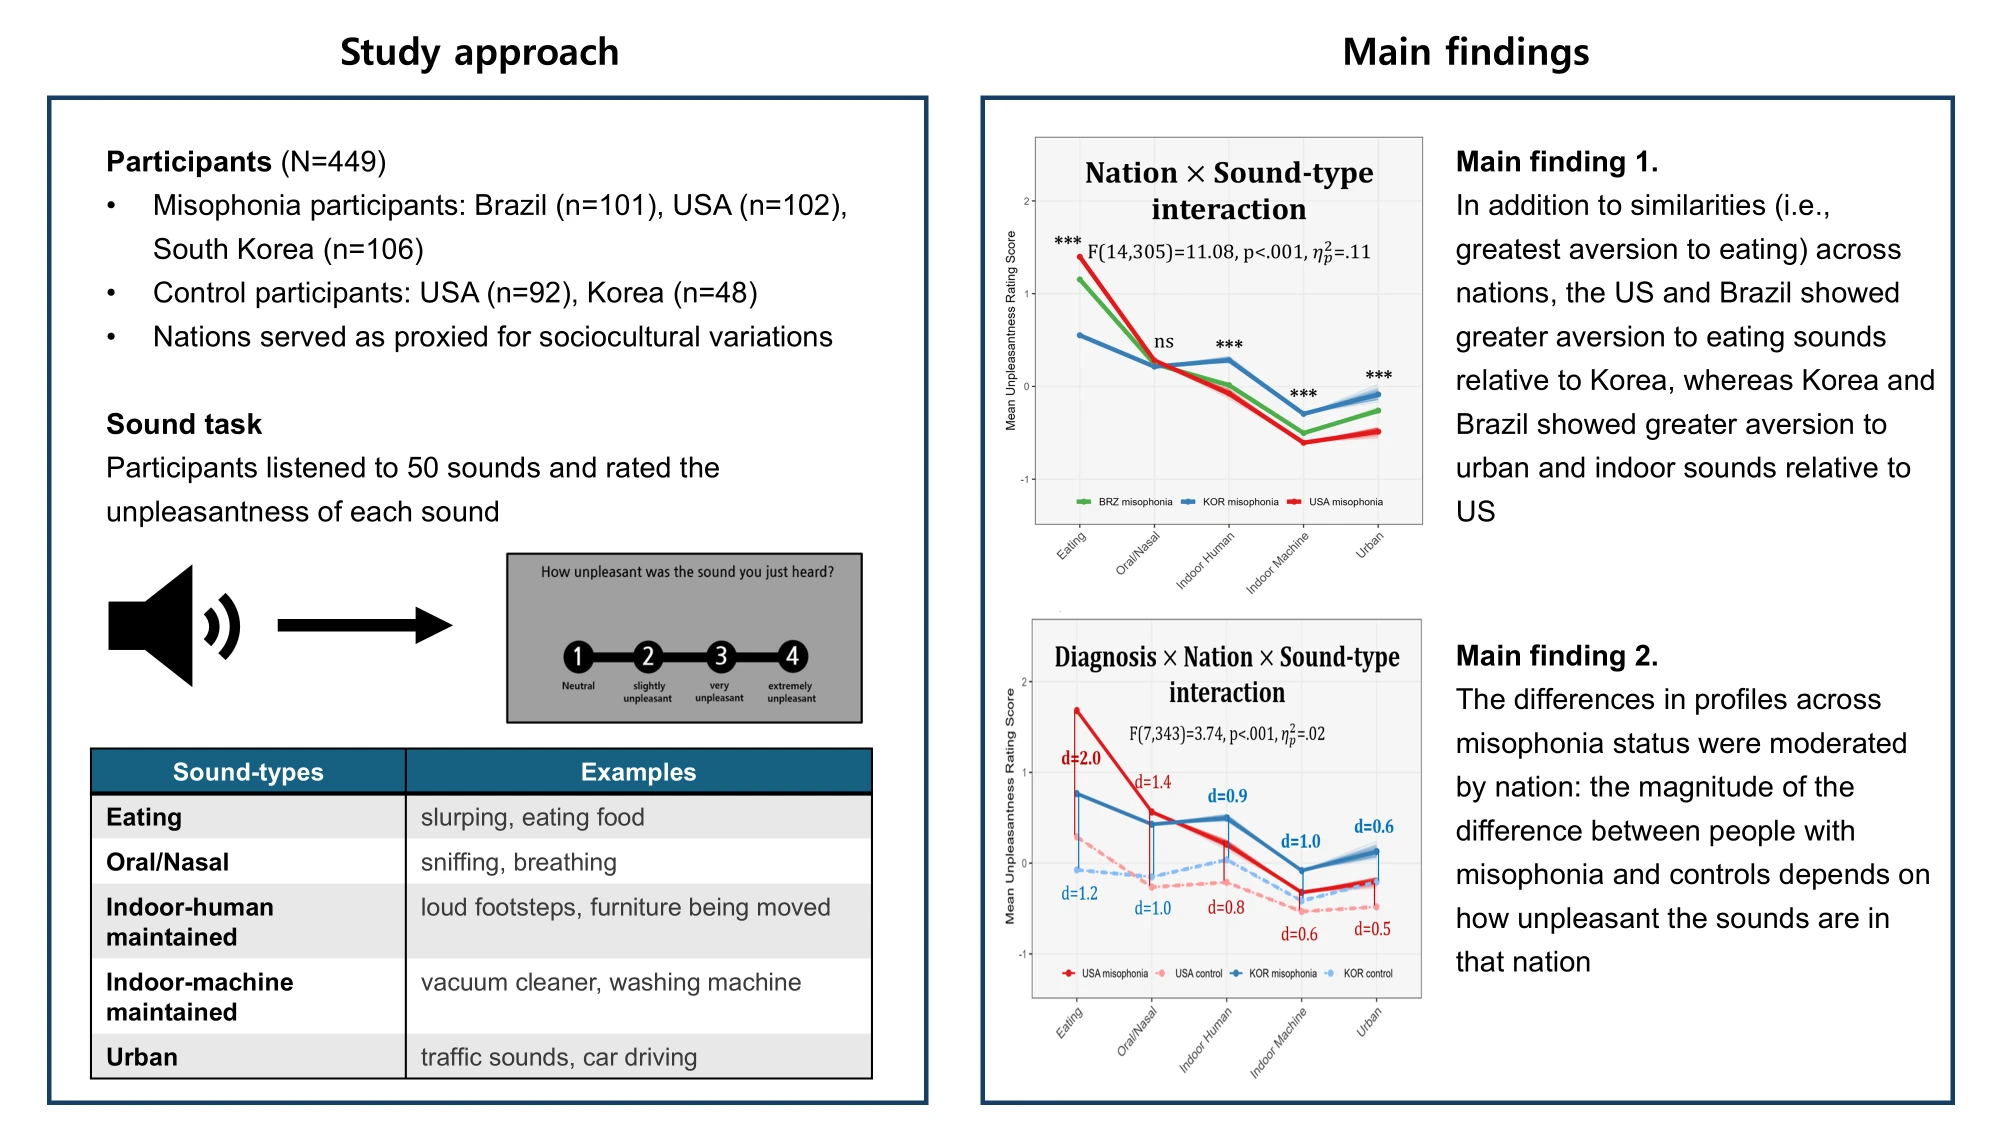
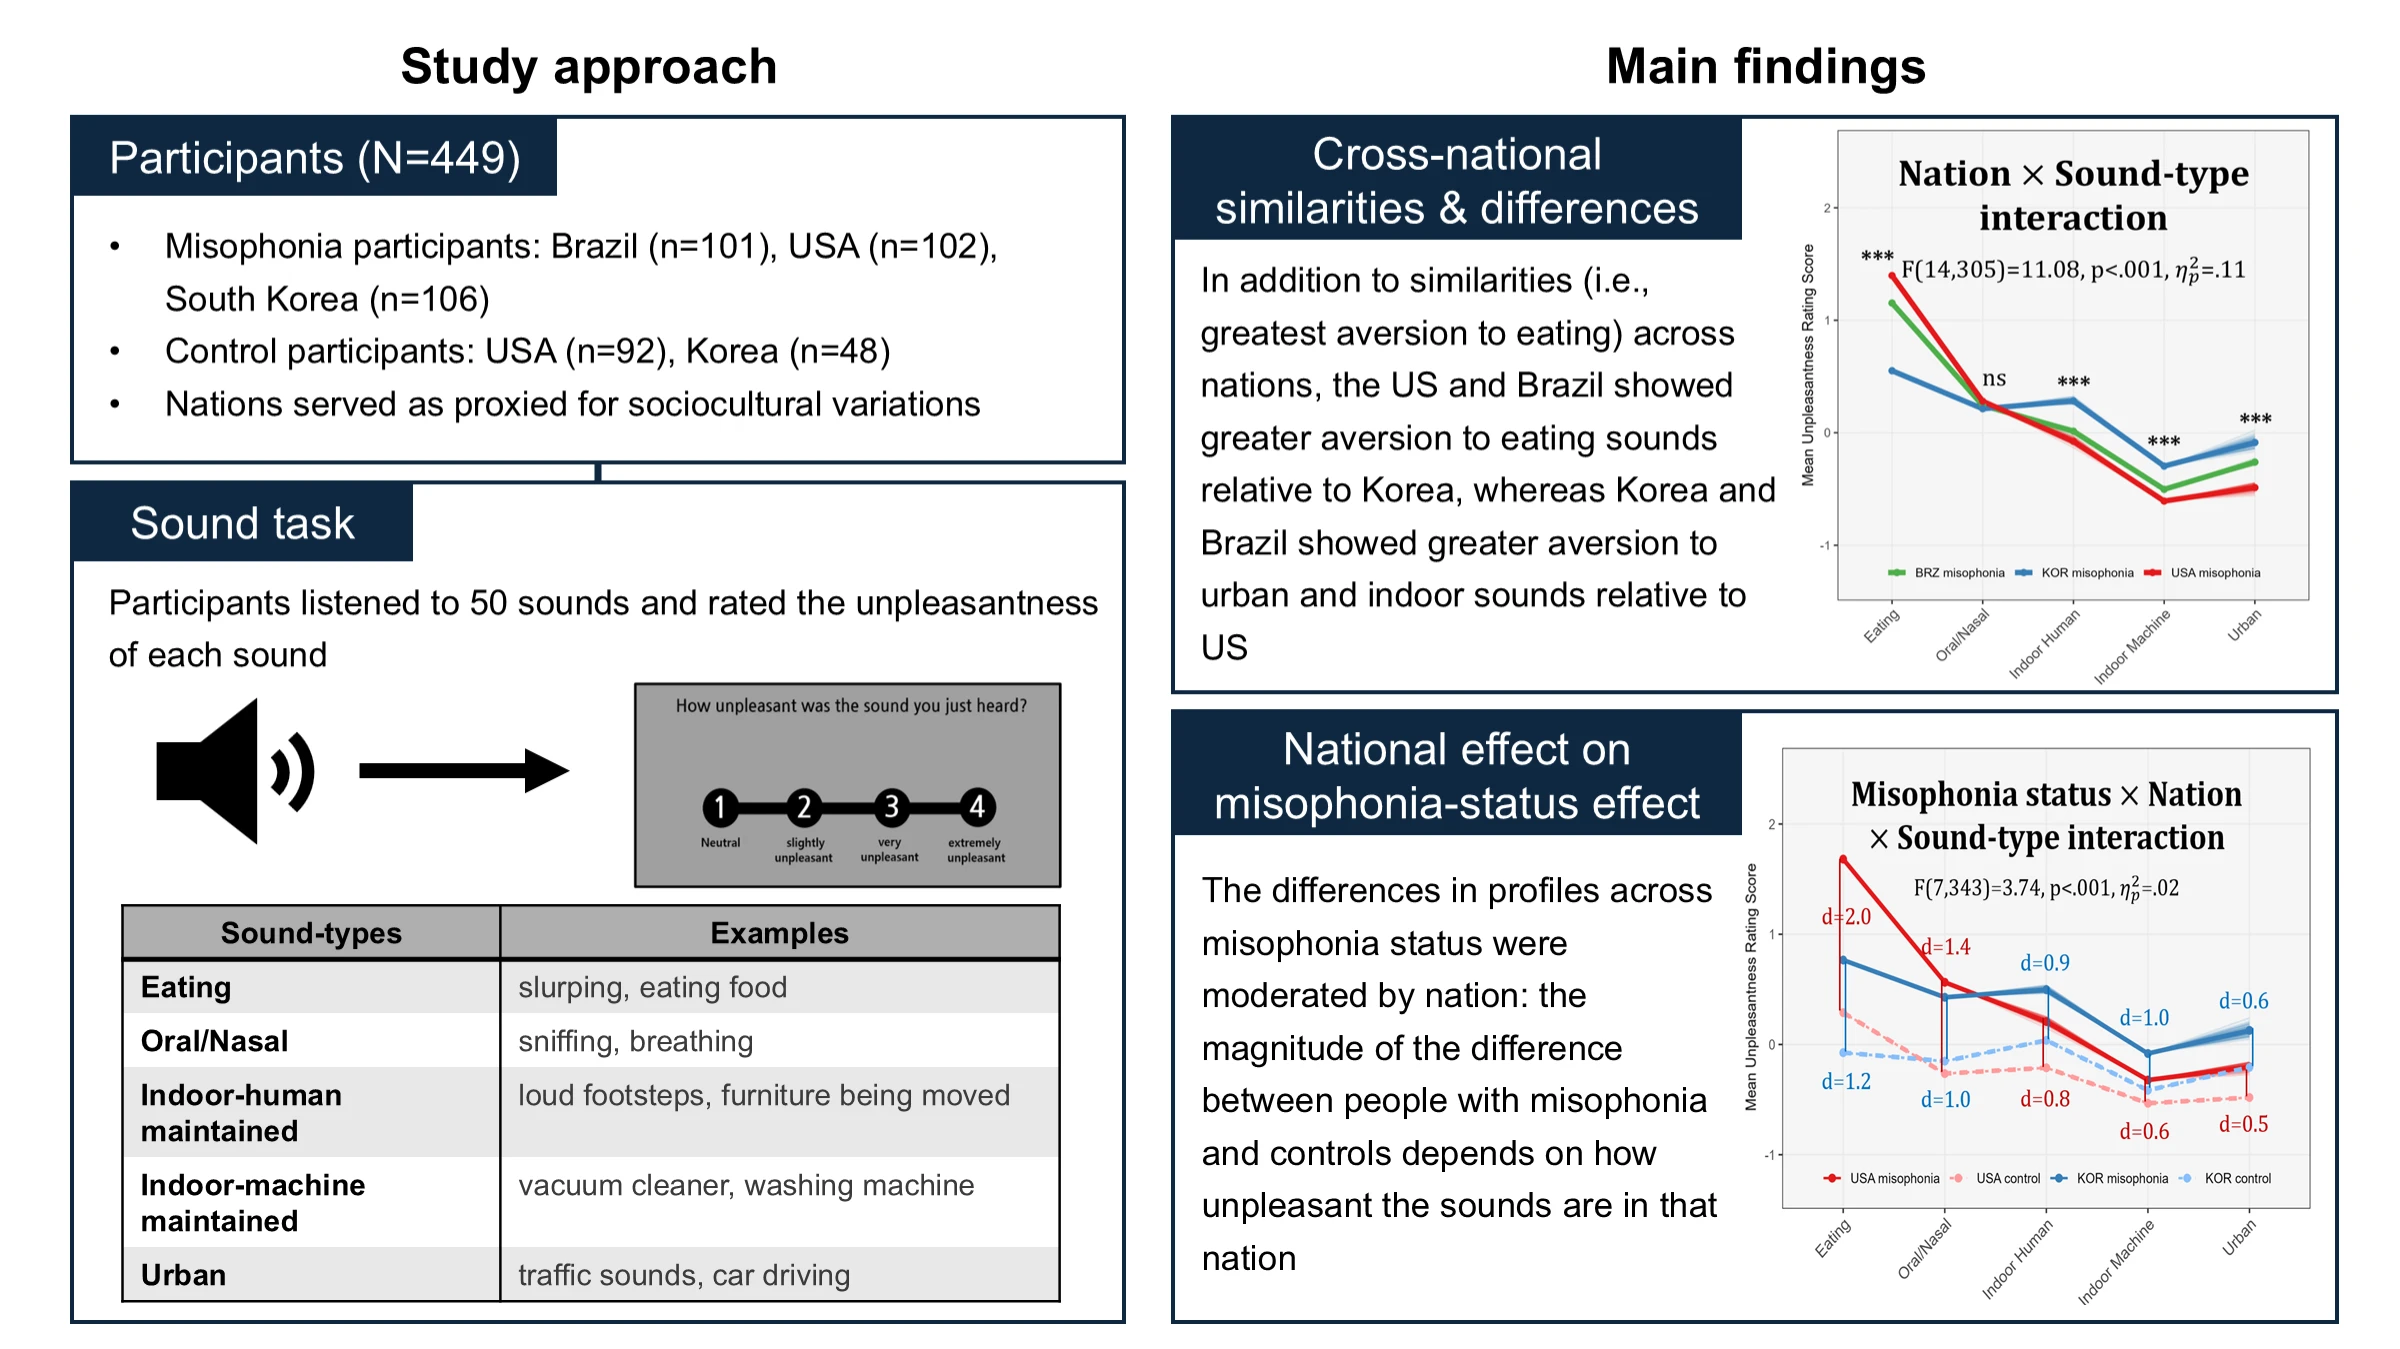
Update project name, remove GitHub button, revise overviews, swap misophonia figure

Changed region(s): [[0.0, 0.0311, 0.992, 0.9956]]

diff --git a/research.html b/research.html
@@ -37,7 +37,7 @@
       <a class="tab" href="#anxiety-sensitivity" aria-selected="true">Anxiety Sensitivity</a>
       <a class="tab" href="#misophonia" aria-selected="false">Misophonia</a>
       <a class="tab" href="#physiology" aria-selected="false">Depression &amp; Anxiety</a>
-      <a class="tab" href="#curiosity" aria-selected="false">Curiosity</a>
+      <a class="tab" href="#curiosity" aria-selected="false">Curiosity &amp; Question</a>
     </nav>
   </div>
 
@@ -53,7 +53,7 @@
           </div>
         </div>
         <h4 class="proj-sub">Overview</h4>
-        <p>We identified whole-brain intrinsic connectivity patterns predictive of individual differences in anxiety sensitivity, applying connectome-based predictive modeling (CPM) to resting-state fMRI data from a non-clinical sample (<em>N</em> = 86). Higher anxiety sensitivity was predicted by reduced intrinsic connectivity in a whole-brain distributed network, particularly in insula-temporal and insula-frontal connections.</p>
+        <p>We identified whole-brain intrinsic connectivity patterns predictive of individual differences in anxiety sensitivity, applying connectome-based predictive modeling (CPM) to resting-state fMRI data from a non-clinical sample (<em>N</em> = 86). Higher anxiety sensitivity was primarily predicted by reduced intrinsic connectivity, particularly in insula-temporal, insula-frontal, and temporal-parietal connections. Anxiety sensitivity is reflected in distributed intrinsic connectivity rather than alterations in a single region.</p>
         <h4 class="proj-sub">Duties</h4>
         <ul class="points">
           <li>Established and led resting-state fMRI data preprocessing, conducted the analysis (connectome-based predictive modeling), and drafted the manuscript.</li>
@@ -75,7 +75,7 @@
           </div>
         </div>
         <h4 class="proj-sub">Overview</h4>
-        <p>In an international research collaboration (Yonsei University, University of Illinois Urbana-Champaign, and University of São Paulo), we identified cross-national similarities and differences in sound aversion profiles among people with misophonia, using behavioral task data (<em>N</em> = 449).</p>
+        <p>In an international research collaboration (Yonsei University, University of Illinois Urbana-Champaign, and University of São Paulo), we identified cross-national similarities and differences in sound aversion profiles among people with misophonia (<em>N</em> = 449). These national differences appear to reflect sociocultural norms and urbanicity-driven sound exposure. Furthermore, the misophonia effect was moderated by nation, with greater amplification of unpleasantness for sounds that each nation found more aversive.</p>
         <h4 class="proj-sub">Duties</h4>
         <ul class="points">
           <li><strong>Behavioral session:</strong> Programmed the trigger-sound behavioral task and distributed it to collaborating research teams in Brazil and the US, preprocessed the data, conducted the analysis (repeated-measures ANOVA), and am currently preparing a manuscript.</li>
@@ -113,10 +113,10 @@
           </div>
         </div>
         <h4 class="proj-sub">Overview</h4>
-        <p>Using region-of-interest (ROI)-to-ROI functional connectivity analysis (<em>N</em> = 34), we identified differential intrinsic connectivity patterns between children with interest-type curiosity and those with deprivation-type curiosity. These two curiosity subtypes recruit opposing neural modes: interest-type curiosity suppresses connectivity between the anterior cingulate cortex, lateral prefrontal cortex, and ventral striatum, whereas deprivation-type curiosity enhances these connections.</p>
+        <p>Using region-of-interest (ROI)-to-ROI functional connectivity analysis (<em>N</em> = 34), we identified differential intrinsic connectivity patterns between children with interest-type curiosity and those with deprivation-type curiosity. These two curiosity subtypes recruit opposing neural modes: interest-type curiosity suppresses connectivity between the anterior cingulate cortex, lateral prefrontal cortex, and ventral striatum, whereas deprivation-type curiosity enhances these connections. Also, both deprivation-type curiosity and question efficiency were linked to stronger connectivity between the ventral tegmental area and ventral striatum, suggesting a shared dopaminergic basis.</p>
         <h4 class="proj-sub">Duties</h4>
         <ul class="points">
-          <li>Implemented the resting-state fMRI data preprocessing pipeline and conducted ROI-to-ROI functional connectivity analyses.</li>
+          <li>Implemented the resting-state fMRI data preprocessing pipeline and conducted analysis (ROI-to-ROI functional connectivity).</li>
         </ul>
         <div class="figure-grid figure-narrow">
           <figure>
@@ -135,7 +135,6 @@
     <span>© <span id="year"></span> Dahyun Won</span>
     <div class="footer-links">
       <a href="mailto:dahyeonw@gmail.com">dahyeonw@gmail.com</a>
-      <a href="https://github.com/dahyun-won" target="_blank" rel="noopener">GitHub</a>
     </div>
   </div>
 </footer>
@@ -143,4 +142,5 @@
 <script src="assets/script.js"></script>
 </body>
 </html>
+
 

diff --git a/index.html b/index.html
@@ -1,4 +1,4 @@
-<!DOCTYPE html>
+<!DOCTYPE html>
 <html lang="en">
 <head>
 <meta charset="UTF-8">
@@ -53,7 +53,7 @@
           <li><a href="research.html#anxiety-sensitivity">Intrinsic connectivity of individual differences in anxiety sensitivity</a></li>
           <li><a href="research.html#physiology">Common and distinct mechanisms of anxiety and depression</a></li>
           <li><a href="research.html#misophonia">Universality and cultural specificity in misophonia: A cross-national study</a></li>
-          <li><a href="research.html#curiosity">Functional connectivity patterns underlying children's curiosity</a></li>
+          <li><a href="research.html#curiosity">Functional connectivity underlying children's curiosity and question efficiency</a></li>
         </ul>
       </div>
 
@@ -94,7 +94,6 @@
     <span>© <span id="year"></span> Dahyun Won</span>
     <div class="footer-links">
       <a href="mailto:dahyeonw@gmail.com">dahyeonw@gmail.com</a>
-      <a href="https://github.com/dahyun-won" target="_blank" rel="noopener">GitHub</a>
     </div>
   </div>
 </footer>
@@ -102,3 +101,4 @@
 <script src="assets/script.js"></script>
 </body>
 </html>
+

diff --git a/cv.html b/cv.html
@@ -1,4 +1,4 @@
-<!DOCTYPE html>
+<!DOCTYPE html>
 <html lang="en">
 <head>
 <meta charset="UTF-8">
@@ -49,7 +49,6 @@
     <span>© <span id="year"></span> Dahyun Won</span>
     <div class="footer-links">
       <a href="mailto:dahyeonw@gmail.com">dahyeonw@gmail.com</a>
-      <a href="https://github.com/dahyun-won" target="_blank" rel="noopener">GitHub</a>
     </div>
   </div>
 </footer>
@@ -57,3 +56,4 @@
 <script src="assets/script.js"></script>
 </body>
 </html>
+

diff --git a/output.html b/output.html
@@ -126,7 +126,6 @@
     <span>© <span id="year"></span> Dahyun Won</span>
     <div class="footer-links">
       <a href="mailto:dahyeonw@gmail.com">dahyeonw@gmail.com</a>
-      <a href="https://github.com/dahyun-won" target="_blank" rel="noopener">GitHub</a>
     </div>
   </div>
 </footer>
@@ -134,5 +133,6 @@
 <script src="assets/script.js"></script>
 </body>
 </html>
+
 
 

diff --git a/skills.html b/skills.html
@@ -65,7 +65,6 @@
     <span>© <span id="year"></span> Dahyun Won</span>
     <div class="footer-links">
       <a href="mailto:dahyeonw@gmail.com">dahyeonw@gmail.com</a>
-      <a href="https://github.com/dahyun-won" target="_blank" rel="noopener">GitHub</a>
     </div>
   </div>
 </footer>
@@ -73,4 +72,5 @@
 <script src="assets/script.js"></script>
 </body>
 </html>
+
 
